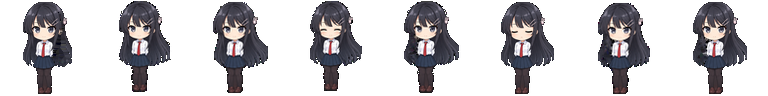
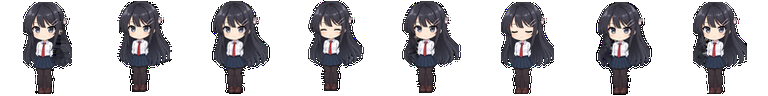
fix: harden imported pet action sprites

diff --git a/scripts/repair-pet-alpha.py b/scripts/repair-pet-alpha.py
@@ -1,0 +1,49 @@
+from __future__ import annotations
+
+import argparse
+from pathlib import Path
+
+from PIL import Image
+
+
+FRAME_SIZE = 96
+CHARACTERS = ("miku", "rem", "mai", "umaru")
+ACTION_GROUPS = ("drag", "unique-a", "unique-b")
+
+
+def harden_strip(path: Path, check: bool) -> int:
+    source = Image.open(path).convert("RGBA")
+    if source.height != FRAME_SIZE or source.width % FRAME_SIZE:
+        raise ValueError(f"unexpected pet strip dimensions: {path} ({source.size})")
+    alpha = source.getchannel("A")
+    partial = sum(alpha.histogram()[1:255])
+    if partial and not check:
+        source.putalpha(alpha.point(lambda value: 255 if value else 0))
+        source.save(path, optimize=True)
+    return partial
+
+
+def main() -> None:
+    parser = argparse.ArgumentParser(description="Harden transformed pet action strips without filling intentional silhouette gaps.")
+    parser.add_argument("--asset-root", type=Path, default=Path("public/assets/pet/v5"))
+    parser.add_argument("--check", action="store_true")
+    args = parser.parse_args()
+
+    unresolved = []
+    total = 0
+    for character in CHARACTERS:
+        for group in ACTION_GROUPS:
+            path = args.asset_root / character / f"{character}-{group}-v5.png"
+            count = harden_strip(path, args.check)
+            total += count
+            if count:
+                unresolved.append((path, count))
+
+    if args.check and unresolved:
+        details = ", ".join(f"{path}:{count}" for path, count in unresolved)
+        raise SystemExit(f"pet action strips still contain partially transparent body pixels: {details}")
+    print(f"{'checked' if args.check else 'hardened'} {total} partially transparent action pixels")
+
+
+if __name__ == "__main__":
+    main()
